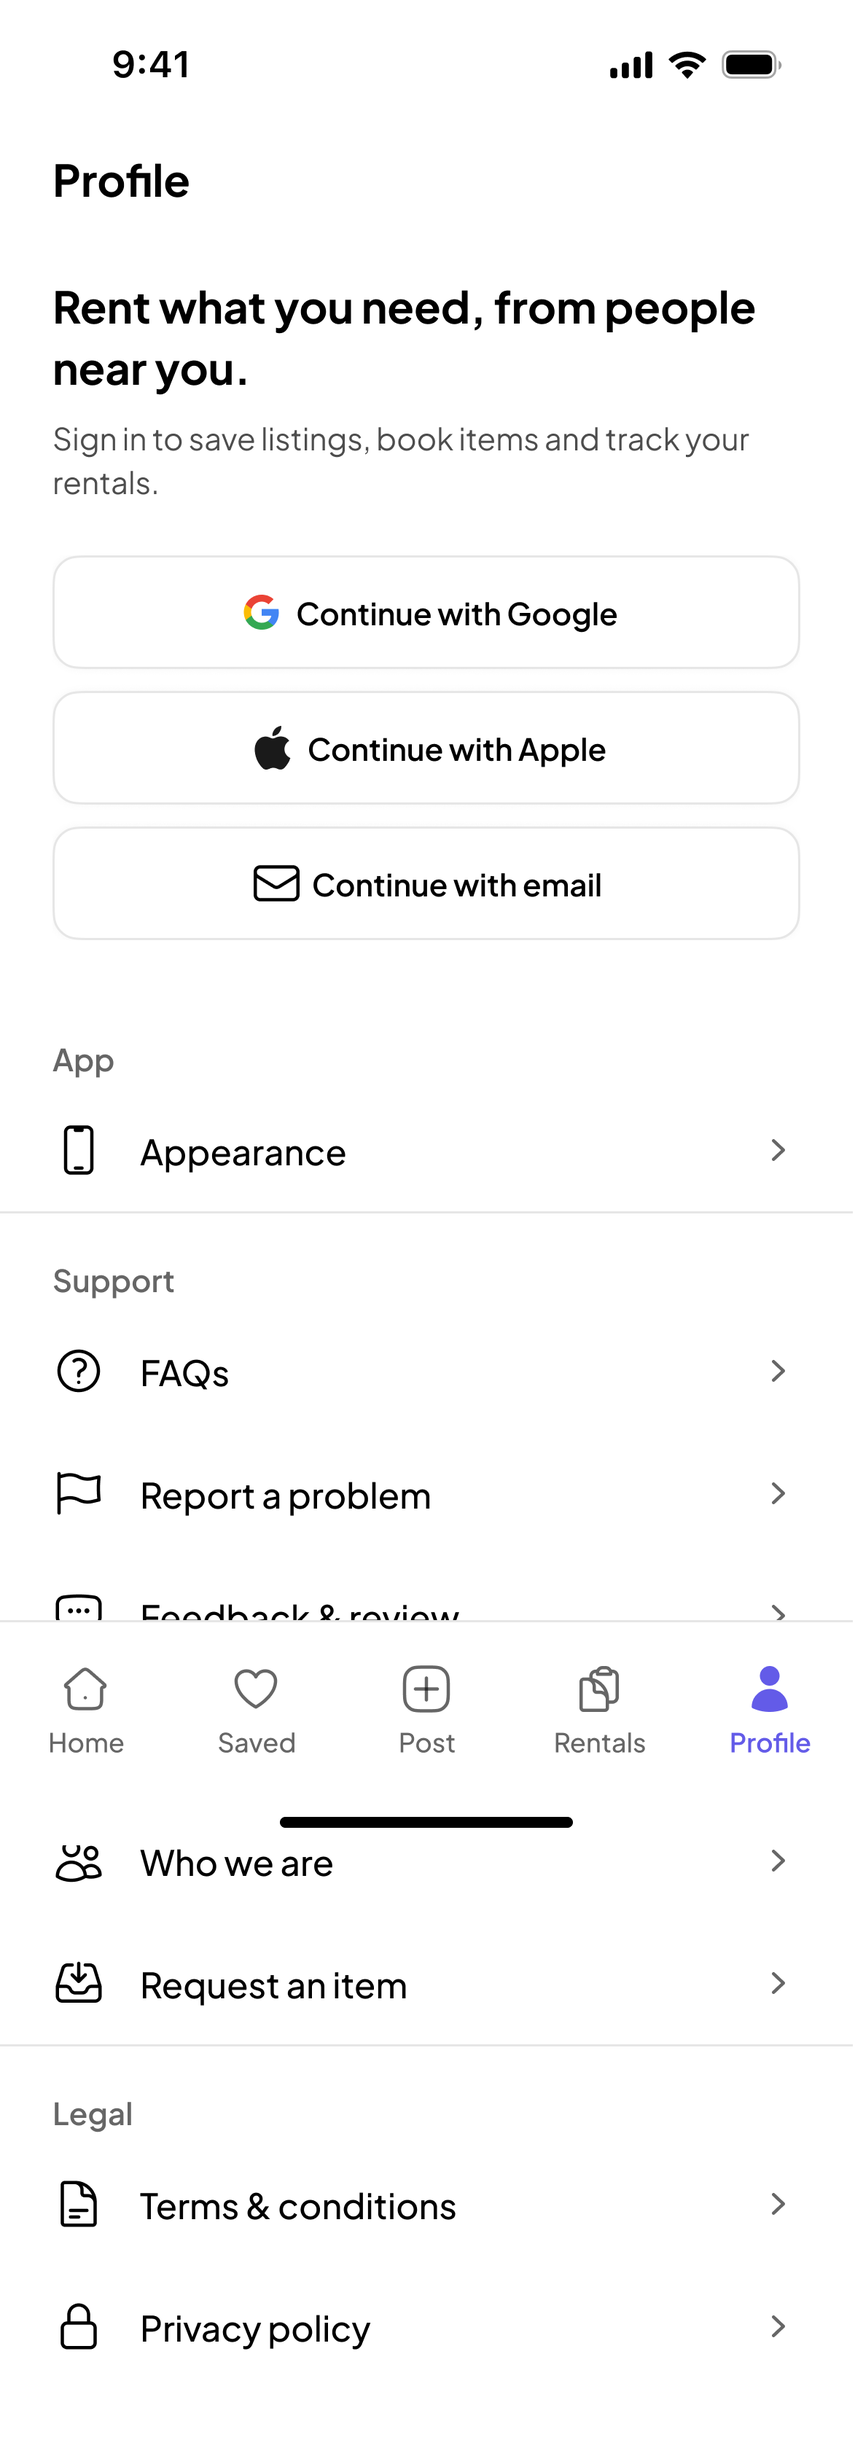
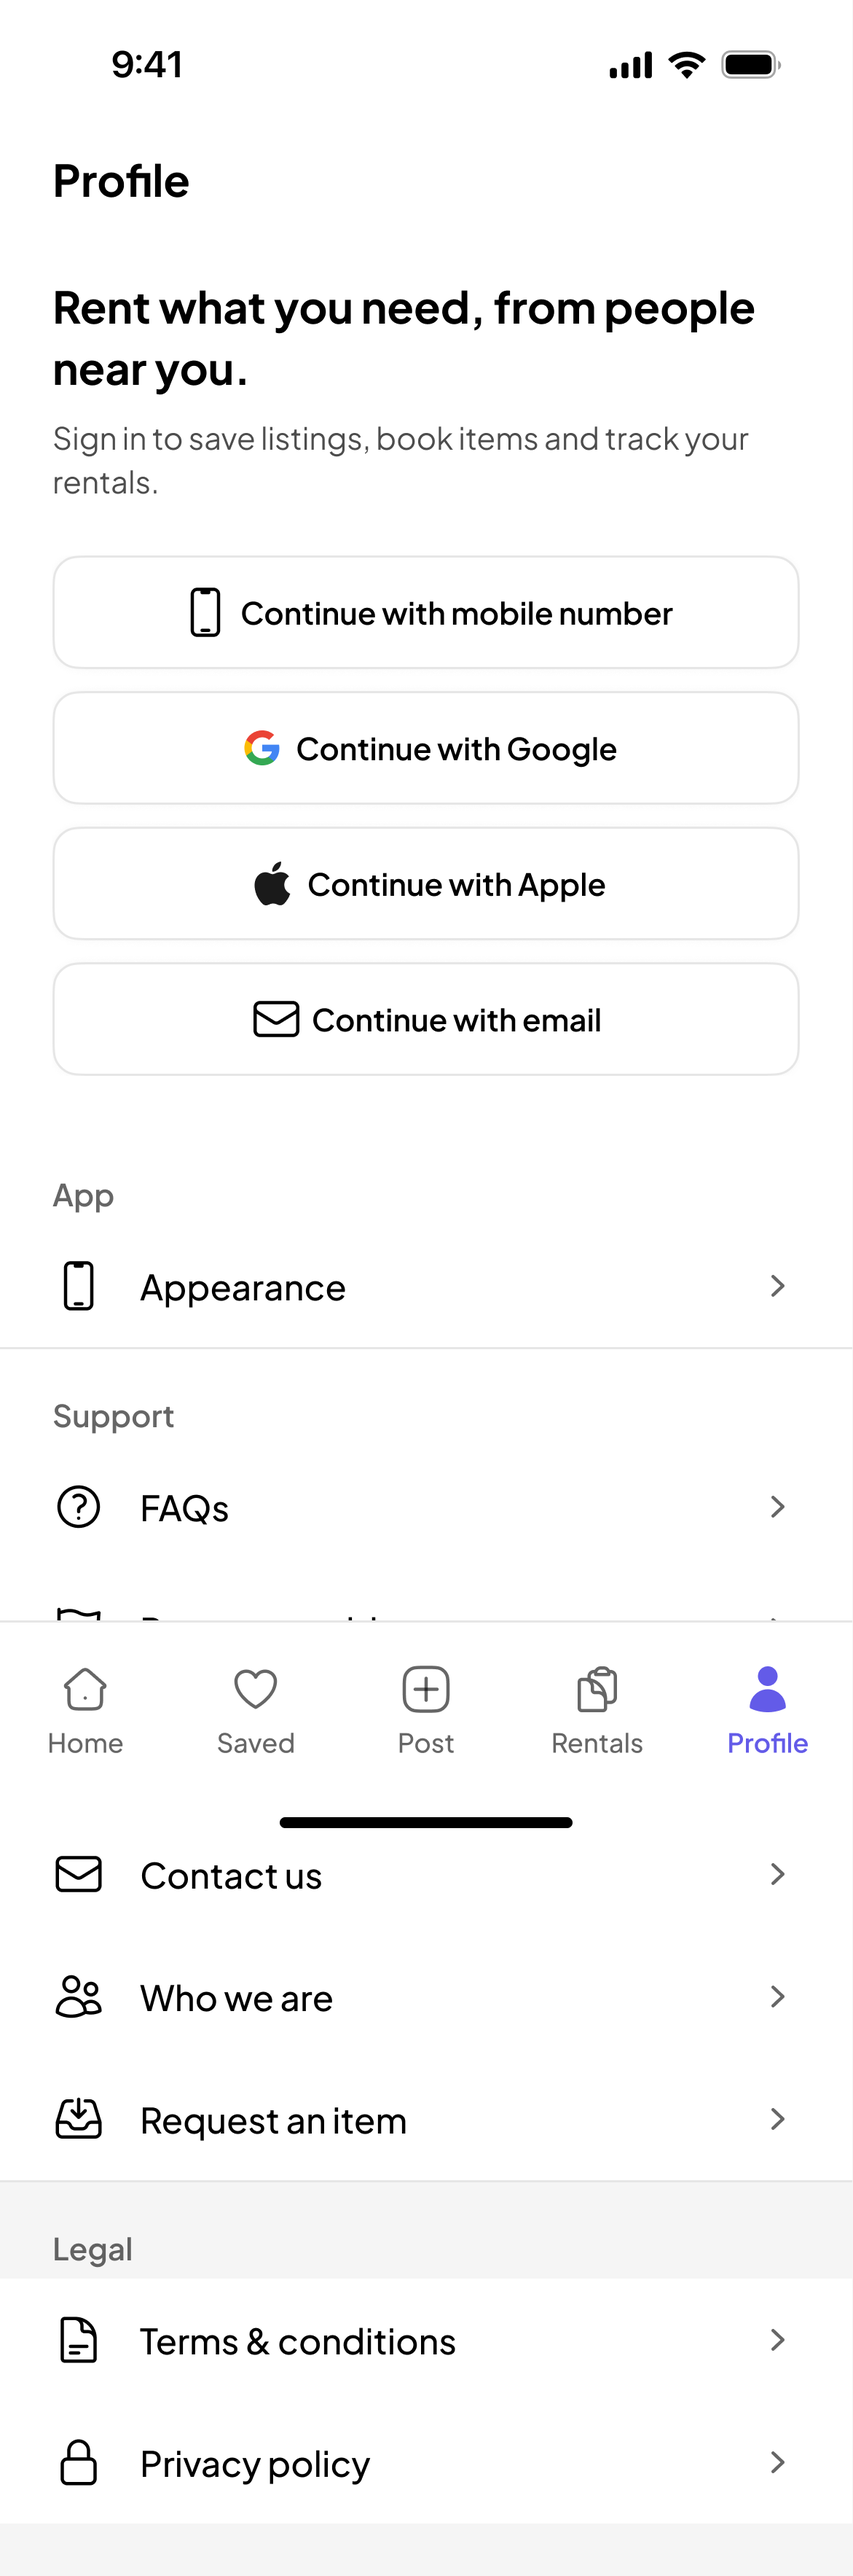
ENG-463: docs(2.1): 3x references for the 02b frames and the updated sign-in panels
The four 02b frames and the five panel frames that gained Continue with mobile number, exported at 3x.
Tracker notes: iOS is checked by hand on a phone; the Android % diff needs the 390dp AVD (the Realme is 360dp);
the panels need a signed-out device.

diff --git a/docs/renit-2.1-build/tracker.md b/docs/renit-2.1-build/tracker.md
@@ -70,8 +70,8 @@ Pass = mismatch ≤ 2% **and** a clean heat map (see README). Check: `live` on d
 | 02 | `2089:15349` | welcome · slide 1 (Rent anything) | ENG-428 | fixture | n/a  | n/a  | Retired by ENG-463 (simplified sign-in): this screen or state no longer exists. Its successors are in Figma section 02b (2179:31784).; Retired by ENG-463 (simplified sign-in): this screen or state no longer exists. Its successors are in Figma section 02b (2179:31784). |
 | 02 | `2089:15444` | welcome · slide 2 (Rent anywhere) | ENG-428 | fixture | n/a  | n/a  | Retired by ENG-463 (simplified sign-in): this screen or state no longer exists. Its successors are in Figma section 02b (2179:31784).; Retired by ENG-463 (simplified sign-in): this screen or state no longer exists. Its successors are in Figma section 02b (2179:31784). |
 | 02 | `2089:15529` | welcome · slide 3 (Rent anytime, NEW copy) | ENG-428 | fixture | n/a  | n/a  | Retired by ENG-463 (simplified sign-in): this screen or state no longer exists. Its successors are in Figma section 02b (2179:31784).; Retired by ENG-463 (simplified sign-in): this screen or state no longer exists. Its successors are in Figma section 02b (2179:31784). |
-| 02 | `2089:15649` | sign-in-panel · Saved tab (signed out) | ENG-428 | fixture | pending  | pending  | ENG-463 added "Continue with mobile number" to the sign-in panel in Figma. Re-export the 3x reference PNG (Figwright plugin), then diff again.; ENG-463 added "Continue with mobile number" to the sign-in panel in Figma. Re-export the 3x reference PNG (Figwright plugin), then diff again. |
-| 02 | `2089:15719` | sign-in-panel · Profile tab (signed out, full scroll) | ENG-428 | fixture | pending  | pending  | ENG-463 added "Continue with mobile number" to the sign-in panel in Figma. Re-export the 3x reference PNG (Figwright plugin), then diff again.; ENG-463 added "Continue with mobile number" to the sign-in panel in Figma. Re-export the 3x reference PNG (Figwright plugin), then diff again. |
+| 02 | `2089:15649` | sign-in-panel · Saved tab (signed out) | ENG-428 | fixture | pending  | pending  | ENG-463 added "Continue with mobile number"; 3x reference re-exported. Needs a signed-out device to diff.; ENG-463 added "Continue with mobile number"; 3x reference re-exported. Needs a signed-out device to diff. |
+| 02 | `2089:15719` | sign-in-panel · Profile tab (signed out, full scroll) | ENG-428 | fixture | pending  | pending  | ENG-463 added "Continue with mobile number"; 3x reference re-exported. Needs a signed-out device to diff.; ENG-463 added "Continue with mobile number"; 3x reference re-exported. Needs a signed-out device to diff. |
 | 02 | `2089:21637` | email · filled | ENG-428 | fixture | n/a  | n/a  | Retired by ENG-463 (simplified sign-in): this screen or state no longer exists. Its successors are in Figma section 02b (2179:31784).; Retired by ENG-463 (simplified sign-in): this screen or state no longer exists. Its successors are in Figma section 02b (2179:31784). |
 | 02 | `2089:21681` | email · invalid email | ENG-428 | fixture | n/a  | n/a  | Retired by ENG-463 (simplified sign-in): this screen or state no longer exists. Its successors are in Figma section 02b (2179:31784).; Retired by ENG-463 (simplified sign-in): this screen or state no longer exists. Its successors are in Figma section 02b (2179:31784). |
 | 02 | `2089:21726` | phone · filled | ENG-428 | fixture+jest | n/a  | n/a  | Retired by ENG-463 (simplified sign-in): this screen or state no longer exists. Its successors are in Figma section 02b (2179:31784).; Retired by ENG-463 (simplified sign-in): this screen or state no longer exists. Its successors are in Figma section 02b (2179:31784). |
@@ -270,8 +270,8 @@ Pass = mismatch ≤ 2% **and** a clean heat map (see README). Check: `live` on d
 | 08 | `2094:24524` | shop-cancel-sheet · one item | ENG-433 | live | pass 0.38% | fail 2.71% | Sheet strip 0.38% (booking scrolled to the Cancel link behind the sheet).; Sheet strip 2.71%: Android puts the warning's first line 1.3pt lower and pitches the lines at 19.4 not 20 (one Text with a 20 lineHeight); measured, Android line metrics. |
 | 08 | `2094:24597` | shop-cancel-sheet · basket (which item) | ENG-433 | live | pass 0.45% | pass 1.41% | Full frame 1.41% passes; Android wraps "booking" of the first line one word earlier (text measuring); layout matches. |
 | 08 | `2095:26567` | shop-booking · out (rental running) | ENG-433 | live | pass 0.30% | pass 0.61% | First screen 0.30%; below the fold 0.43% (diffs/ios/2095-26567-scroll); Money keeps "Held by Renit"; Get help is ENG-431.; First screen 0.61%; below the fold 0.46% (diffs/android/2095-26567-scroll). |
-| 13 | `2095:24982` | profile-signed-out · guest (full scroll) | ENG-438 | live | pending  | pending  | ENG-463 added "Continue with mobile number" to the sign-in panel in Figma. Re-export the 3x reference PNG (Figwright plugin), then diff again.; ENG-463 added "Continue with mobile number" to the sign-in panel in Figma. Re-export the 3x reference PNG (Figwright plugin), then diff again. |
-| 13 | `2095:25130` | profile-signed-out · guest | ENG-438 | live | pending  | pending  | ENG-463 added "Continue with mobile number" to the sign-in panel in Figma. Re-export the 3x reference PNG (Figwright plugin), then diff again.; ENG-463 added "Continue with mobile number" to the sign-in panel in Figma. Re-export the 3x reference PNG (Figwright plugin), then diff again. |
+| 13 | `2095:24982` | profile-signed-out · guest (full scroll) | ENG-438 | live | pending  | pending  | ENG-463 added "Continue with mobile number"; 3x reference re-exported. Needs a signed-out device to diff.; ENG-463 added "Continue with mobile number"; 3x reference re-exported. Needs a signed-out device to diff. |
+| 13 | `2095:25130` | profile-signed-out · guest | ENG-438 | live | pending  | pending  | ENG-463 added "Continue with mobile number"; 3x reference re-exported. Needs a signed-out device to diff.; ENG-463 added "Continue with mobile number"; 3x reference re-exported. Needs a signed-out device to diff. |
 | 13 | `2095:25349` | profile-signed-in · customer (full scroll) | ENG-438 | live | pass 0.97% | pass 1.31% | First screen 0.97%; scroll end diffs/ios/2095-25349.scroll 0.38% (Logout visible after the scroll view was bounded under the header).; First screen 1.31%; scroll end diffs/android/2095-25349.scroll 0.69%. |
 | 13 | `2095:25572` | profile-signed-in · customer | ENG-438 | live | pass 0.54% | pass 0.41% |  |
 | 13 | `2095:25822` | profile-signed-in · shop, pending approval | ENG-438 | live | pass 0.68% | pass 1.01% |  |
@@ -318,7 +318,7 @@ Pass = mismatch ≤ 2% **and** a clean heat map (see README). Check: `live` on d
 | 11 | `2095:24328` | edit-images · cover set | ENG-436 | live | todo  | todo  |  |
 | 11 | `2096:25867` | edit-about-product · change waiting, prompts | ENG-436 | live | todo  | todo  |  |
 | 11 | `2096:26057` | edit-about-product · full scroll (someone else contact) | ENG-436 | live | todo  | todo  |  |
-| 10 | `2094:22625` | post-tab-gate · signed out | ENG-435 | fixture | pending  | pending  | ENG-463 added "Continue with mobile number" to the sign-in panel in Figma. Re-export the 3x reference PNG (Figwright plugin), then diff again.; ENG-463 added "Continue with mobile number" to the sign-in panel in Figma. Re-export the 3x reference PNG (Figwright plugin), then diff again. |
+| 10 | `2094:22625` | post-tab-gate · signed out | ENG-435 | fixture | pending  | pending  | ENG-463 added "Continue with mobile number"; 3x reference re-exported. Needs a signed-out device to diff.; ENG-463 added "Continue with mobile number"; 3x reference re-exported. Needs a signed-out device to diff. |
 | 10 | `2094:22718` | post-tab-gate · merchant pending | ENG-435 | fixture | pass 0.25% | pass 0.52% | 0.52%: Android measures the 14pt Notice body wider and wraps "You" onto line 2; card, button row and tab bar line up. |
 | 10 | `2094:22770` | post-tab-gate · merchant rejected | ENG-435 | fixture+jest | pass 0.34% | fail 2.47% | 2.47%: as 22718, "You" wraps onto line 2 of the rejected Notice body (platform text width); the tab title, card box and tab bar line up. |
 | 10 | `2094:22828` | post-tab-gate · approved (fallback, normally skipped) | ENG-435 | fixture | pass 0.97% | fail 5.78% | 0.97%: the button is centred in the content area, which is 6pt shorter on iOS (682 vs 688), so it sits 3.3pt high (measured 10px); no code difference.; 5.78% is the crop: the button is centred in the content area, which the emulator makes 51dp taller (24dp status bar, no bottom inset), so it sits 25pt lower (measured 75px); iOS diff 0.97%. |
@@ -443,7 +443,7 @@ Pass = mismatch ≤ 2% **and** a clean heat map (see README). Check: `live` on d
 | 10 | `2168:31313` | list-review · what comes with it, list error | ENG-435 | fixture | todo  | todo  |  |
 | 11 | `2168:31492` | edit-product · what comes with it | ENG-436 | fixture | todo  | todo  |  |
 | 11 | `2168:31577` | edit-included-items · default (full scroll) | ENG-436 | fixture | todo  | todo  |  |
-| 02b | `2179:31785` | sign-in · NEW (phone first, one screen for sign-up + login) | ENG-463 | fixture | pending  | pending  | ENG-463 02b frame. Export the 3x reference PNG (Figwright plugin), then run frame_diff.; ENG-463 02b frame. Export the 3x reference PNG (Figwright plugin), then run frame_diff. |
-| 02b | `2179:31895` | email · NEW (code only, no password) | ENG-463 | fixture | pending  | pending  | ENG-463 02b frame. Export the 3x reference PNG (Figwright plugin), then run frame_diff.; ENG-463 02b frame. Export the 3x reference PNG (Figwright plugin), then run frame_diff. |
-| 02b | `2179:31931` | verify · NEW (same screen for phone + email) | ENG-463 | fixture | pending  | pending  | ENG-463 02b frame. Export the 3x reference PNG (Figwright plugin), then run frame_diff.; ENG-463 02b frame. Export the 3x reference PNG (Figwright plugin), then run frame_diff. |
-| 02b | `2179:31979` | your-name · NEW (only when the account has no name) | ENG-463 | fixture | pending  | pending  | ENG-463 02b frame. Export the 3x reference PNG (Figwright plugin), then run frame_diff.; ENG-463 02b frame. Export the 3x reference PNG (Figwright plugin), then run frame_diff. |
+| 02b | `2179:31785` | sign-in · NEW (phone first, one screen for sign-up + login) | ENG-463 | fixture | pending  | pending  | ENG-463: 3x reference exported. iOS is checked by hand on Yash's iPhone (2026-11-29: no simulator for this story).; ENG-463: Realme (360dp) matches the layout by eye; a 360dp screen scales about 8% against the 390pt frame, so the % diff needs the 390dp AVD. |
+| 02b | `2179:31895` | email · NEW (code only, no password) | ENG-463 | fixture | pending  | pending  | ENG-463: 3x reference exported. iOS is checked by hand on Yash's iPhone (2026-11-29: no simulator for this story).; ENG-463: Realme (360dp) matches the layout by eye; a 360dp screen scales about 8% against the 390pt frame, so the % diff needs the 390dp AVD. |
+| 02b | `2179:31931` | verify · NEW (same screen for phone + email) | ENG-463 | fixture | pending  | pending  | ENG-463: 3x reference exported. iOS is checked by hand on Yash's iPhone (2026-11-29: no simulator for this story).; ENG-463: Realme (360dp) matches the layout by eye; a 360dp screen scales about 8% against the 390pt frame, so the % diff needs the 390dp AVD. |
+| 02b | `2179:31979` | your-name · NEW (only when the account has no name) | ENG-463 | fixture | pending  | pending  | ENG-463: 3x reference exported. iOS is checked by hand on Yash's iPhone (2026-11-29: no simulator for this story).; ENG-463: Realme (360dp) matches the layout by eye; a 360dp screen scales about 8% against the 390pt frame, so the % diff needs the 390dp AVD. |
